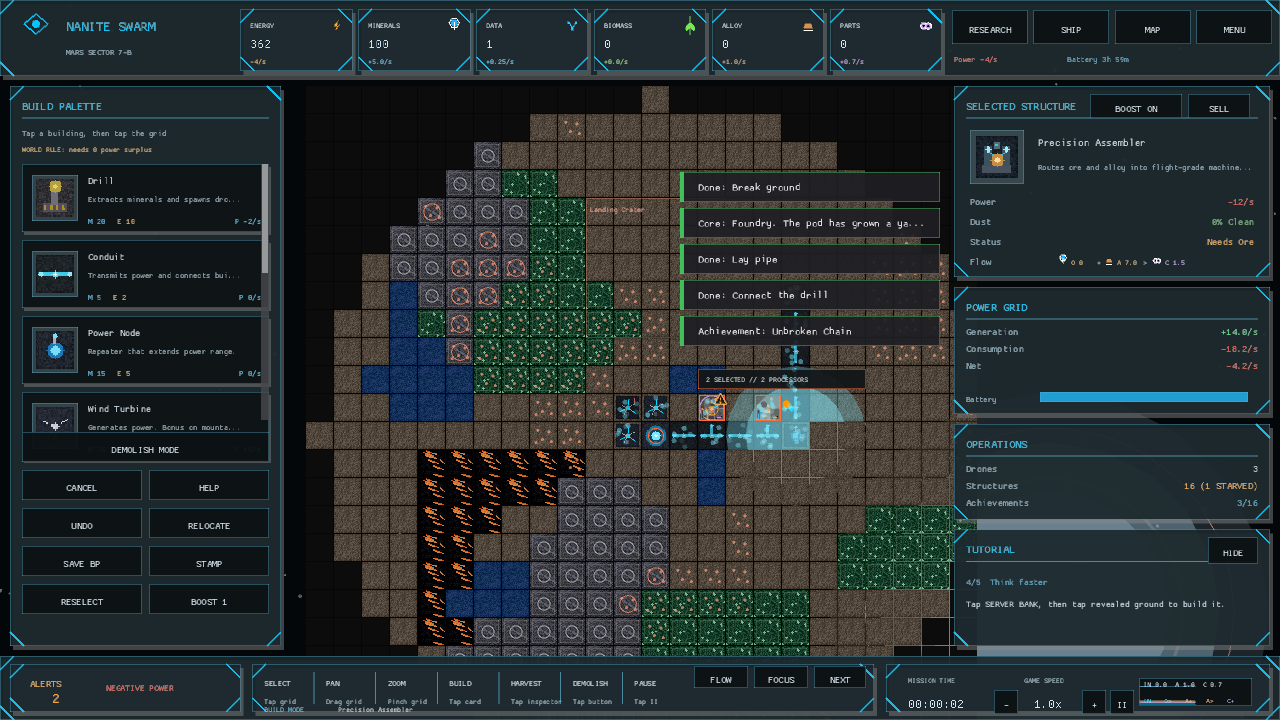
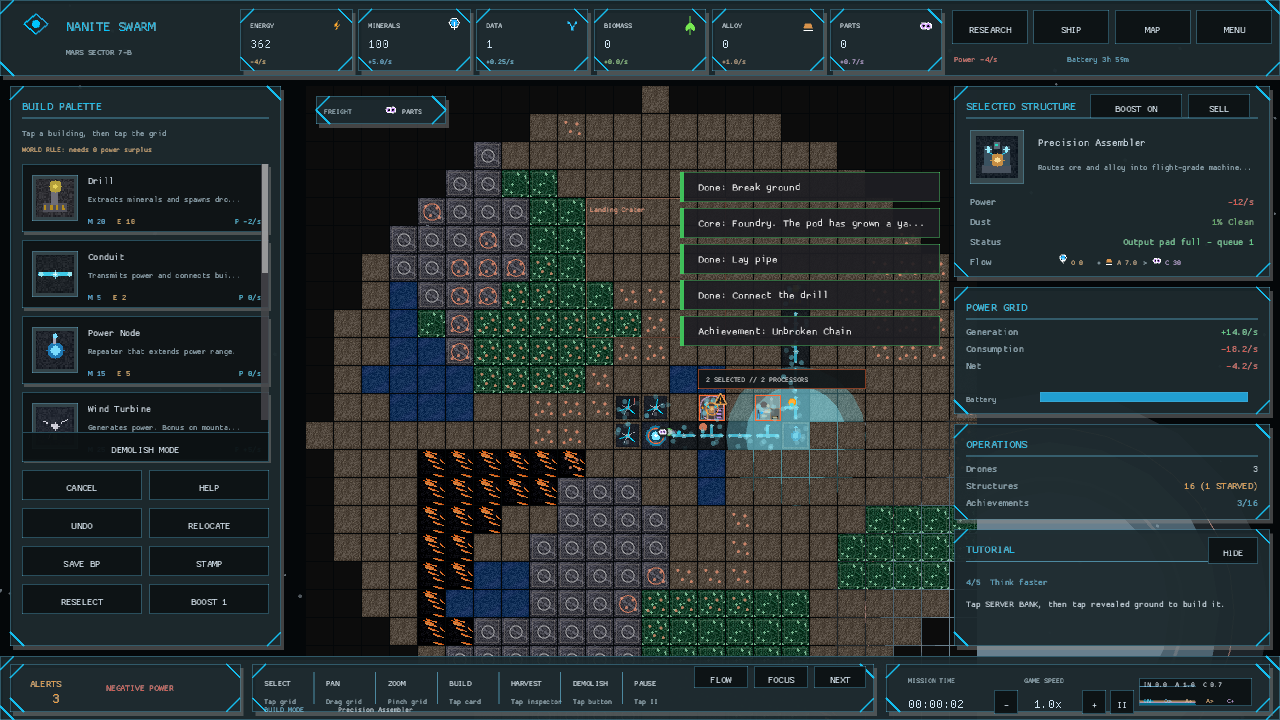
The assembly line stops at the edge of its own apron (finite processor output pads and backpressure)
Smelters and assemblers could previously accumulate unlimited off-grid output, hiding a broken dispatch network and consuming inputs forever. Physical recipes now respect a shared finite pad capacity and scale their final work to the room that remains.

A full pad pauses input consumption, is treated as unsafe by Auto Clock, fills the on-map crate stack, appears in the inspector and alerts, and contributes a blocked count and red node state to FLOW. Tests cover both simulation backpressure and player-facing status.

diff --git a/src/screens/planetary_view/flow_render.rs b/src/screens/planetary_view/flow_render.rs
@@ -23,6 +23,7 @@ struct FlowNode {
     outputs: Vec<ResourceType>,
     readiness: f32,
     powered: bool,
+    blocked: bool,
 }
 
 #[derive(Debug, Clone, PartialEq)]
@@ -30,6 +31,7 @@ struct FactoryLedger {
     processors: usize,
     active: usize,
     starved: usize,
+    blocked: usize,
     boosted: usize,
     bottleneck: Option<ResourceType>,
     ore_rate: f32,
@@ -84,8 +86,8 @@ fn draw_factory_ledger(ledger: &FactoryLedger, metrics: HudMetrics, theme: &UiTh
     let warning = color_from_rgba(&theme.colors.warning);
     let success = color_from_rgba(&theme.colors.success);
     let summary = format!(
-        "PROCESSORS {}   ACTIVE {}   STARVED {}   BOOST {}",
-        ledger.processors, ledger.active, ledger.starved, ledger.boosted
+        "PROC {}   ACTIVE {}   STARVED {}   BLOCKED {}   BOOST {}",
+        ledger.processors, ledger.active, ledger.starved, ledger.blocked, ledger.boosted
     );
     draw_ui_text(&summary, area.x + 12.0, area.y + 50.0, 10.0, text);
 
@@ -104,13 +106,19 @@ fn draw_factory_ledger(ledger: &FactoryLedger, metrics: HudMetrics, theme: &UiTh
             };
             format!("{} // BOTTLENECK {}", clock_mode, label)
         })
-        .unwrap_or_else(|| format!("{} // FLOW STABLE", clock_mode));
+        .unwrap_or_else(|| {
+            if ledger.blocked > 0 {
+                format!("{} // DISPATCH PAD FULL", clock_mode)
+            } else {
+                format!("{} // FLOW STABLE", clock_mode)
+            }
+        });
     draw_ui_text(
         &bottleneck,
         area.x + 12.0,
         area.y + 71.0,
         9.0,
-        if ledger.bottleneck.is_some() {
+        if ledger.bottleneck.is_some() || ledger.blocked > 0 {
             warning
         } else {
             success
@@ -153,9 +161,11 @@ fn factory_ledger(state: &PlanetState) -> FactoryLedger {
     let nodes = factory_flow_nodes(state);
     let starved: std::collections::HashSet<GridPos> =
         state.starved_factories().into_iter().collect();
+    let blocked: std::collections::HashSet<GridPos> =
+        state.blocked_factories().into_iter().collect();
     let active = nodes
         .iter()
-        .filter(|node| node.powered && node.readiness > 0.001)
+        .filter(|node| node.powered && node.readiness > 0.001 && !blocked.contains(&node.pos))
         .count();
     let boosted = nodes
         .iter()
@@ -171,6 +181,7 @@ fn factory_ledger(state: &PlanetState) -> FactoryLedger {
         processors: nodes.len(),
         active,
         starved: starved.len(),
+        blocked: blocked.len(),
         boosted,
         bottleneck: factory_bottleneck(state, &starved),
         ore_rate: state.throughput.last().unwrap_or(0.0),
@@ -255,6 +266,8 @@ fn draw_node(node: &FlowNode, starved: bool, metrics: HudMetrics, theme: &UiThem
     let y = center.y - metrics.tile_size * 0.72 - height;
     let border = if !node.powered {
         color_from_rgba(&theme.colors.text_dim)
+    } else if node.blocked {
+        color_from_rgba(&theme.colors.error)
     } else if starved {
         color_from_rgba(&theme.colors.warning)
     } else {
@@ -302,7 +315,9 @@ fn draw_node(node: &FlowNode, starved: bool, metrics: HudMetrics, theme: &UiThem
         bar_y,
         (width - 4.0) * node.readiness,
         1.5,
-        if starved {
+        if node.blocked {
+            color_from_rgba(&theme.colors.error)
+        } else if starved {
             color_from_rgba(&theme.colors.warning)
         } else {
             color_from_rgba(&theme.colors.success)
@@ -312,6 +327,8 @@ fn draw_node(node: &FlowNode, starved: bool, metrics: HudMetrics, theme: &UiThem
 
 fn factory_flow_nodes(state: &PlanetState) -> Vec<FlowNode> {
     let mut nodes = Vec::new();
+    let blocked: std::collections::HashSet<GridPos> =
+        state.blocked_factories().into_iter().collect();
     for def in &crate::data::game_data().buildings {
         if def.recipe.is_empty() {
             continue;
@@ -328,6 +345,7 @@ fn factory_flow_nodes(state: &PlanetState) -> Vec<FlowNode> {
                 outputs: outputs.clone(),
                 readiness: recipe_readiness(state, pos, &def.recipe),
                 powered: is_operational(state, pos),
+                blocked: blocked.contains(&pos),
             });
         }
     }

diff --git a/src/state/progress.rs b/src/state/progress.rs
@@ -294,6 +294,42 @@ impl PlanetState {
             .unwrap_or(0.0)
     }
 
+    /// The finite dispatch apron shared by every physical-output processor.
+    pub fn processor_pad_capacity(&self) -> f32 {
+        self.config
+            .logistics
+            .pad_depth
+            .max(self.drones.drone_capacity * 3.0)
+    }
+
+    /// Powered processors that cannot work because their dispatch pad is full.
+    pub fn blocked_factories(&self) -> Vec<GridPos> {
+        let capacity = self.processor_pad_capacity();
+        crate::data::game_data()
+            .buildings
+            .iter()
+            .filter(|def| {
+                def.recipe.outputs.iter().any(|(id, rate)| {
+                    *rate > 0.0 && ResourceType::from_id(id).is_some_and(ResourceType::is_physical)
+                })
+            })
+            .filter_map(|def| BuildingType::from_id(&def.id))
+            .flat_map(|kind| self.grid.find_buildings(kind))
+            .filter(|pos| {
+                self.grid
+                    .get(*pos)
+                    .and_then(|tile| tile.building.as_ref())
+                    .is_some_and(|building| building.powered && !building.is_dust_stalled())
+                    && self
+                        .output_buffers
+                        .get(&(pos.x, pos.y))
+                        .copied()
+                        .unwrap_or(0.0)
+                        >= capacity - 0.001
+            })
+            .collect()
+    }
+
     /// Powered processors with at least one empty required input. Returning
     /// positions lets both the HUD count the bottleneck and the map mark it.
     pub fn starved_factories(&self) -> Vec<GridPos> {

diff --git a/src/state/simulation.rs b/src/state/simulation.rs
@@ -239,6 +239,24 @@ impl PlanetState {
             let mut scale = building.dust_efficiency_with(&dust_response)
                 * building.work_multiplier()
                 * delta_time;
+            let physical_output_rate: f32 = recipe
+                .outputs
+                .iter()
+                .filter_map(|(id, rate)| {
+                    crate::engine::ResourceType::from_id(id)
+                        .is_some_and(crate::engine::ResourceType::is_physical)
+                        .then_some(*rate)
+                })
+                .sum();
+            if physical_output_rate > 0.0 {
+                let waiting = self
+                    .output_buffers
+                    .get(&(pos.x, pos.y))
+                    .copied()
+                    .unwrap_or(0.0);
+                let room = (self.processor_pad_capacity() - waiting).max(0.0);
+                scale = scale.min(room / physical_output_rate);
+            }
             for (id, rate) in &recipe.inputs {
                 if *rate <= 0.0 {
                     continue;

diff --git a/src/state/auto_clock.rs b/src/state/auto_clock.rs
@@ -48,6 +48,7 @@ impl PlanetState {
 
     fn rebalance_auto_clocking(&mut self) -> (usize, usize) {
         let starved: HashSet<GridPos> = self.starved_factories().into_iter().collect();
+        let blocked: HashSet<GridPos> = self.blocked_factories().into_iter().collect();
         let mut processors: Vec<GridPos> = self
             .grid
             .iter_tiles()
@@ -74,6 +75,7 @@ impl PlanetState {
             };
             let unsafe_to_boost = !building.powered
                 || starved.contains(pos)
+                || blocked.contains(pos)
                 || building.dust >= DISABLE_AT_DUST
                 || headroom < 0.0;
             if building.overclocked && unsafe_to_boost {
@@ -96,6 +98,7 @@ impl PlanetState {
             if !building.overclocked
                 && building.powered
                 && !starved.contains(&pos)
+                && !blocked.contains(&pos)
                 && building.dust <= ENABLE_BELOW_DUST
                 && headroom >= extra + POWER_RESERVE
             {

diff --git a/src/state/simulation/tests.rs b/src/state/simulation/tests.rs
@@ -277,6 +277,28 @@ fn overclocked_assembler_pays_for_half_again_as_much_real_work() {
 }
 
 #[test]
+fn a_full_processor_pad_stops_output_without_eating_more_input() {
+    let (mut state, pos) = processing_world(BuildingType::Smelter, 0.0);
+    state.input_hoppers.insert(
+        (pos.x, pos.y),
+        [(crate::engine::ResourceType::Minerals, 20.0)]
+            .into_iter()
+            .collect(),
+    );
+    let capacity = state.processor_pad_capacity();
+    state.output_buffers.insert((pos.x, pos.y), capacity);
+
+    state.update_recipes(1.0);
+
+    assert_eq!(state.output_buffers.get(&(pos.x, pos.y)), Some(&capacity));
+    assert_eq!(
+        state.input_hoppers[&(pos.x, pos.y)][&crate::engine::ResourceType::Minerals],
+        20.0
+    );
+    assert_eq!(state.blocked_factories(), [pos]);
+}
+
+#[test]
 fn starvation_marks_only_powered_processors_with_a_missing_input() {
     let (mut state, pos) = processing_world(BuildingType::Smelter, 0.0);
     assert_eq!(state.starved_factories(), [pos]);

diff --git a/src/screens/planetary_view/hud/bottom_bar.rs b/src/screens/planetary_view/hud/bottom_bar.rs
@@ -64,6 +64,7 @@ pub(super) fn draw(
     );
     let congested = state.congested_tiles();
     let starved = state.starved_factories().len();
+    let blocked = state.blocked_factories().len();
     let alert_count = i32::from(state.save_failed)
         + i32::from(state.restored_from_backup)
         + i32::from(state.power_balance < 0.0)
@@ -71,6 +72,7 @@ pub(super) fn draw(
         + i32::from(state.power_collapse_shutdown > 0.0)
         + i32::from(congested > 0)
         + i32::from(starved > 0)
+        + i32::from(blocked > 0)
         + i32::from(state.stalled_drone_count() > 0);
     draw_ui_text("ALERTS", 30.0, bottom_y + 31.0, 12.0, warning);
     draw_ui_text(
@@ -98,6 +100,8 @@ pub(super) fn draw(
         "ROUTE SEVERED"
     } else if starved > 0 {
         "INPUT STARVED"
+    } else if blocked > 0 {
+        "OUTPUT PAD FULL"
     } else if congested > 0 {
         "TRAFFIC SATURATED"
     } else {

diff --git a/src/screens/planetary_view/hud/power_ops_panel.rs b/src/screens/planetary_view/hud/power_ops_panel.rs
@@ -93,8 +93,11 @@ pub(super) fn draw(
         drone_color,
     );
     let starved = state.starved_factories().len();
+    let blocked = state.blocked_factories().len();
     let structure_value = if starved > 0 {
         format!("{} ({} STARVED)", state.grid.total_buildings(), starved)
+    } else if blocked > 0 {
+        format!("{} ({} BLOCKED)", state.grid.total_buildings(), blocked)
     } else {
         format!("{}", state.grid.total_buildings())
     };
@@ -105,7 +108,11 @@ pub(super) fn draw(
         right_w - 24.0,
         "Structures",
         &structure_value,
-        if starved > 0 { colors.warning } else { text },
+        if starved > 0 || blocked > 0 {
+            colors.warning
+        } else {
+            text
+        },
     );
     // The one row on the stack that opens something: a count of achievements
     // with no way to see which ones is a count of nothing.

diff --git a/src/capture_scenes.rs b/src/capture_scenes.rs
@@ -440,8 +440,8 @@ impl Game {
                 for _ in 0..60 {
                     planet.step(state::TICK_SECONDS, false);
                 }
-                // Let the graph remember a working line, then empty one feed
-                // so the same frame verifies the bottleneck marker and count.
+                let pad_capacity = planet.processor_pad_capacity() + planet.drones.drone_capacity;
+                planet.output_buffers.insert(key, pad_capacity);
                 if let Some(hopper) = planet.input_hoppers.get_mut(&key) {
                     hopper.insert(engine::ResourceType::Minerals, 0.0);
                     planet.input_buffers.insert(key, hopper.values().sum());

diff --git a/src/screens/planetary_view/hud/inspector_panel.rs b/src/screens/planetary_view/hud/inspector_panel.rs
@@ -376,6 +376,7 @@ pub(super) fn draw(
 struct RecipeFlowData {
     inputs: Vec<(ResourceType, f32)>,
     output: (ResourceType, f32),
+    output_capacity: f32,
 }
 
 fn recipe_flow_data(
@@ -415,12 +416,16 @@ fn recipe_flow_data(
     Some(RecipeFlowData {
         inputs,
         output: (output, waiting),
+        output_capacity: state.processor_pad_capacity(),
     })
 }
 
 fn recipe_status(flow: &RecipeFlowData, powered: bool) -> String {
     if !powered {
         return "No power".to_string();
+    }
+    if flow.output.1 >= flow.output_capacity - 0.001 {
+        return "Output pad full".to_string();
     }
     let missing: Vec<&str> = flow
         .inputs

diff --git a/src/screens/planetary_view/hud/inspector_panel/tests.rs b/src/screens/planetary_view/hud/inspector_panel/tests.rs
@@ -40,3 +40,14 @@ fn multi_input_flow_is_structured_and_names_the_missing_feed() {
     assert_eq!(recipe_status(&flow, true), "Needs Ore");
     assert_eq!(recipe_status(&flow, false), "No power");
 }
+
+#[test]
+fn a_full_dispatch_pad_is_named_before_it_can_hide_as_idle() {
+    let mut state = PlanetState::new(2, 42, GameConfig::default());
+    let pos = state.grid.find_core().unwrap();
+    state
+        .output_buffers
+        .insert((pos.x, pos.y), state.processor_pad_capacity());
+    let flow = recipe_flow_data(&state, pos, BuildingType::Smelter).unwrap();
+    assert_eq!(recipe_status(&flow, true), "Output pad full");
+}

diff --git a/src/screens/planetary_view/factory_render.rs b/src/screens/planetary_view/factory_render.rs
@@ -170,11 +170,11 @@ fn processor_visual(
         .get(&(pos.x, pos.y))
         .copied()
         .unwrap_or(0.0);
-    let output_fill =
-        (waiting / (state.drones.drone_capacity.max(output.1 * 10.0))).clamp(0.0, 1.0);
+    let output_fill = (waiting / state.processor_pad_capacity()).clamp(0.0, 1.0);
     let active = building.powered
         && !building.is_dust_stalled()
-        && inputs.iter().all(|(_, fill)| *fill > 0.001);
+        && inputs.iter().all(|(_, fill)| *fill > 0.001)
+        && output_fill < 0.999;
     Some(ProcessorVisual {
         pos,
         inputs,

diff --git a/src/screens/planetary_view/factory_render/tests.rs b/src/screens/planetary_view/factory_render/tests.rs
@@ -27,7 +27,13 @@ fn assembler_art_tracks_each_hopper_and_its_waiting_components() {
     let visual = processor_visual(&state, pos, recipe).unwrap();
     assert_eq!(visual.inputs[0], (ResourceType::Minerals, 0.5));
     assert_eq!(visual.inputs[1], (ResourceType::Alloy, 1.0));
-    assert_eq!(visual.output, (ResourceType::Components, 0.5));
+    assert_eq!(
+        visual.output,
+        (
+            ResourceType::Components,
+            5.0 / state.processor_pad_capacity()
+        )
+    );
     assert!(visual.active);
 }
 
